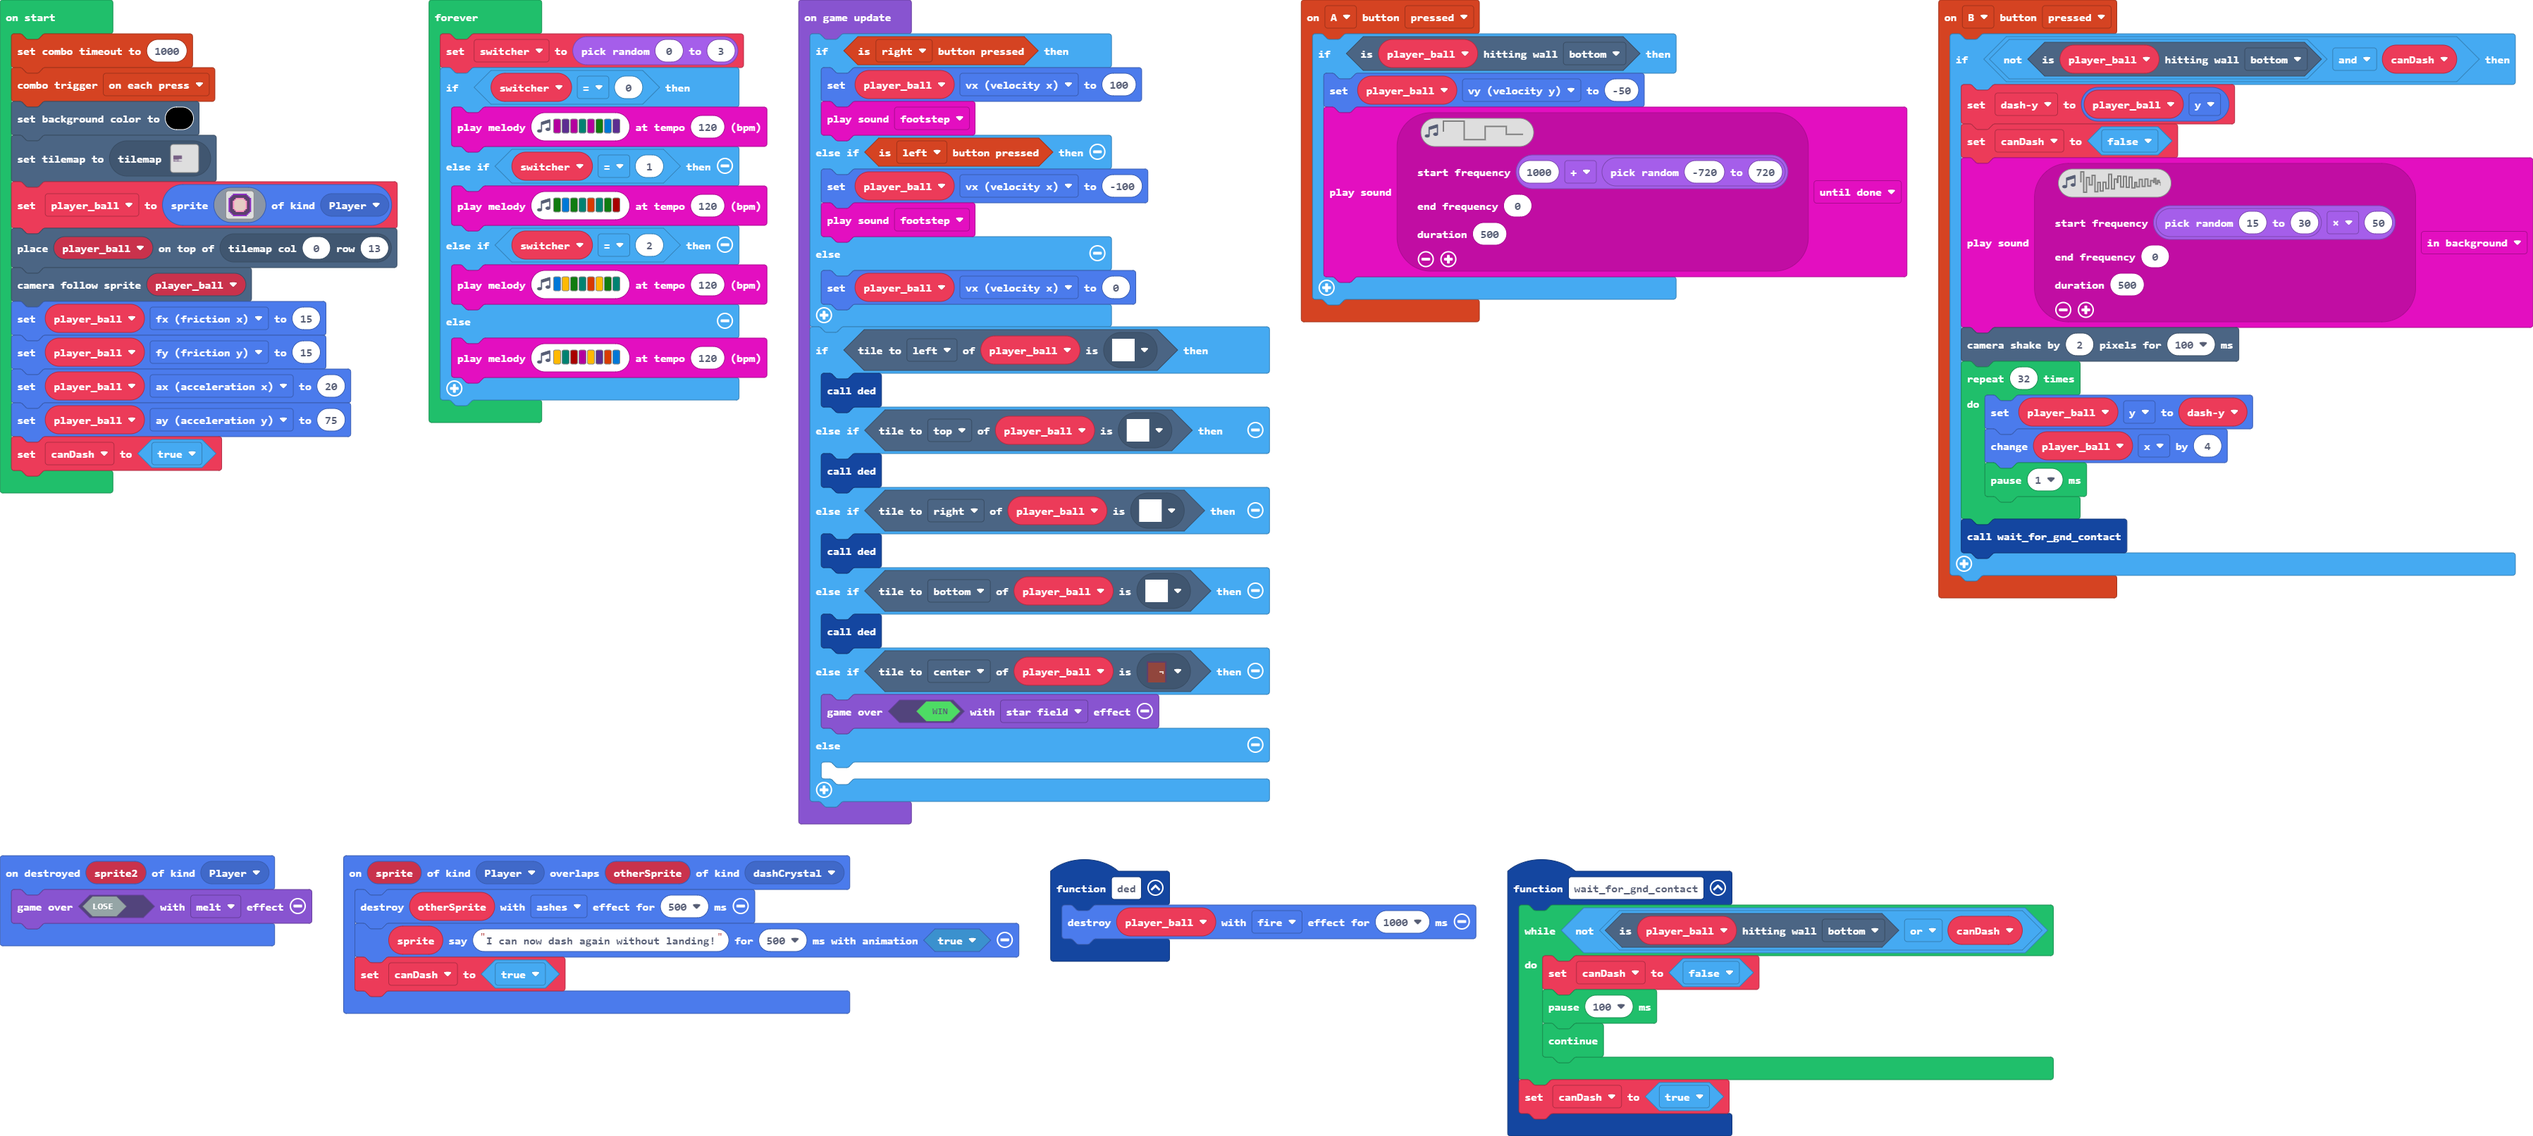
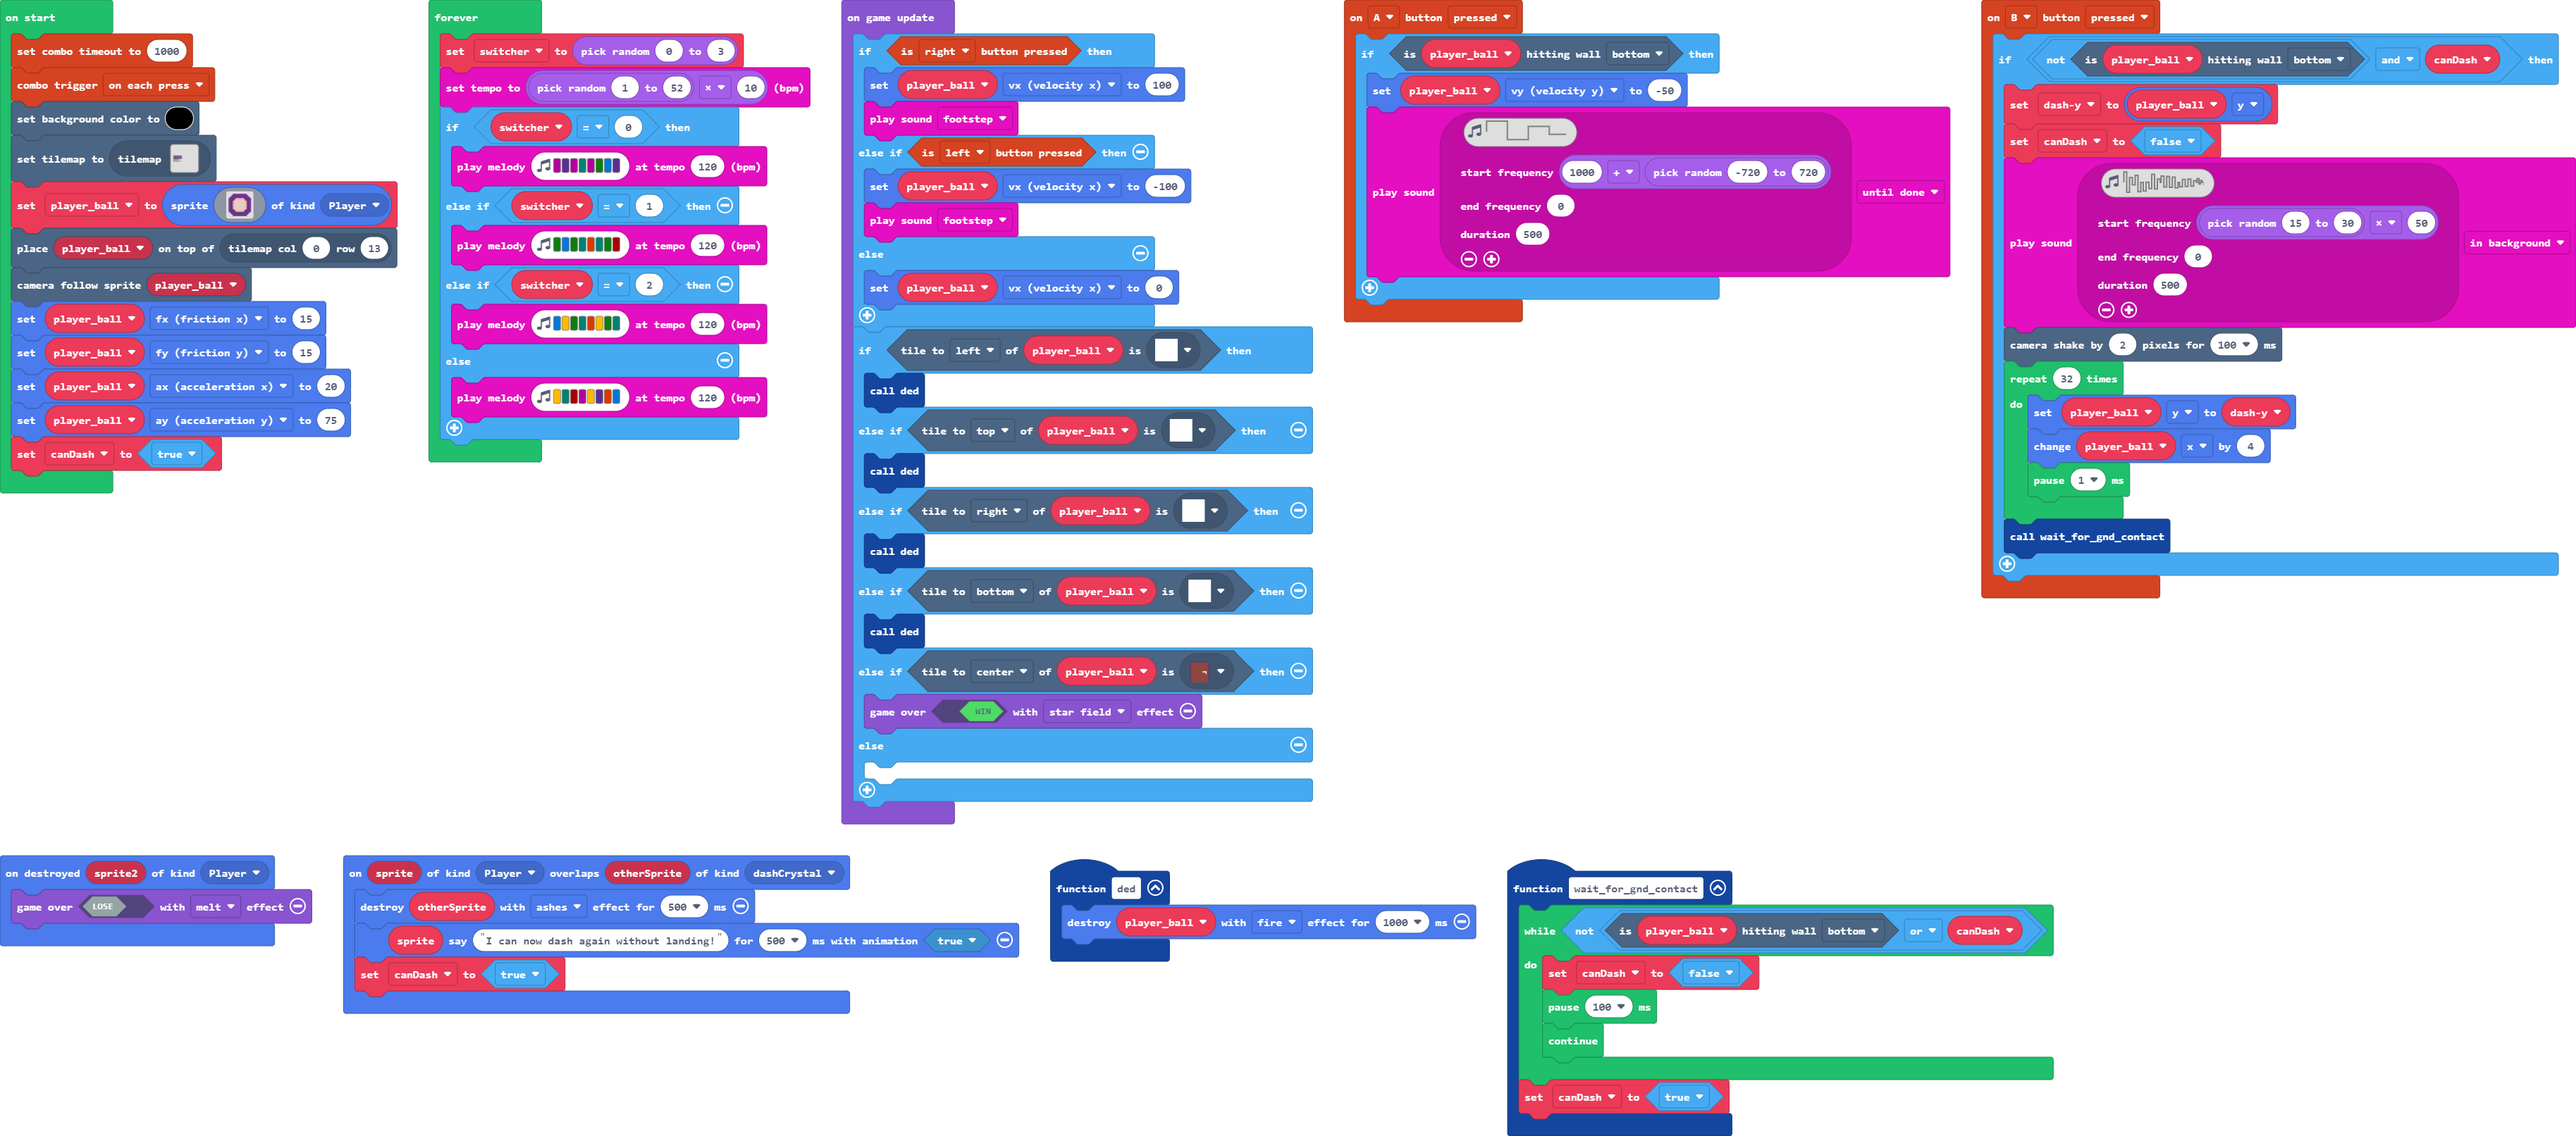
Added random music BPM picker

diff --git a/main.ts b/main.ts
@@ -100,6 +100,7 @@ game.onUpdate(function () {
 })
 forever(function () {
     switcher = randint(0, 3)
+    music.setTempo(randint(1, 52) * 10)
     if (switcher == 0) {
         music.playMelody("C D C F C G E D ", 120)
     } else if (switcher == 1) {
